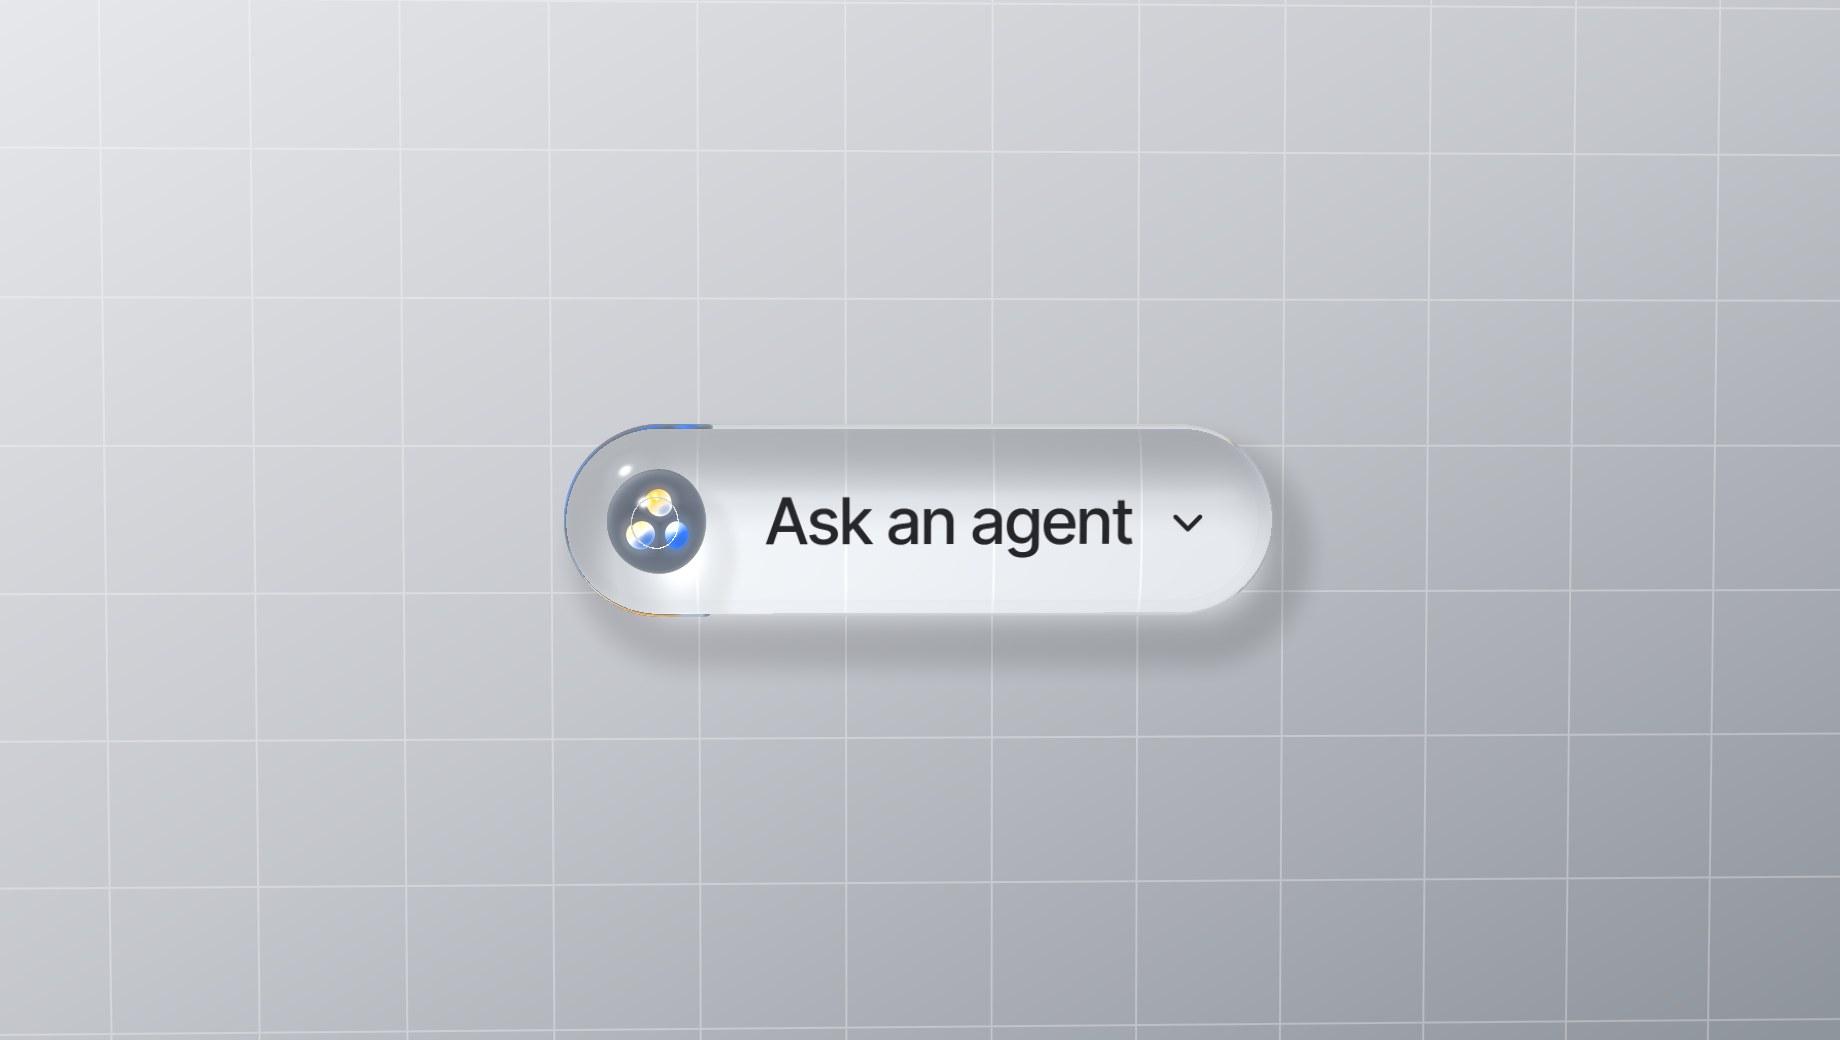
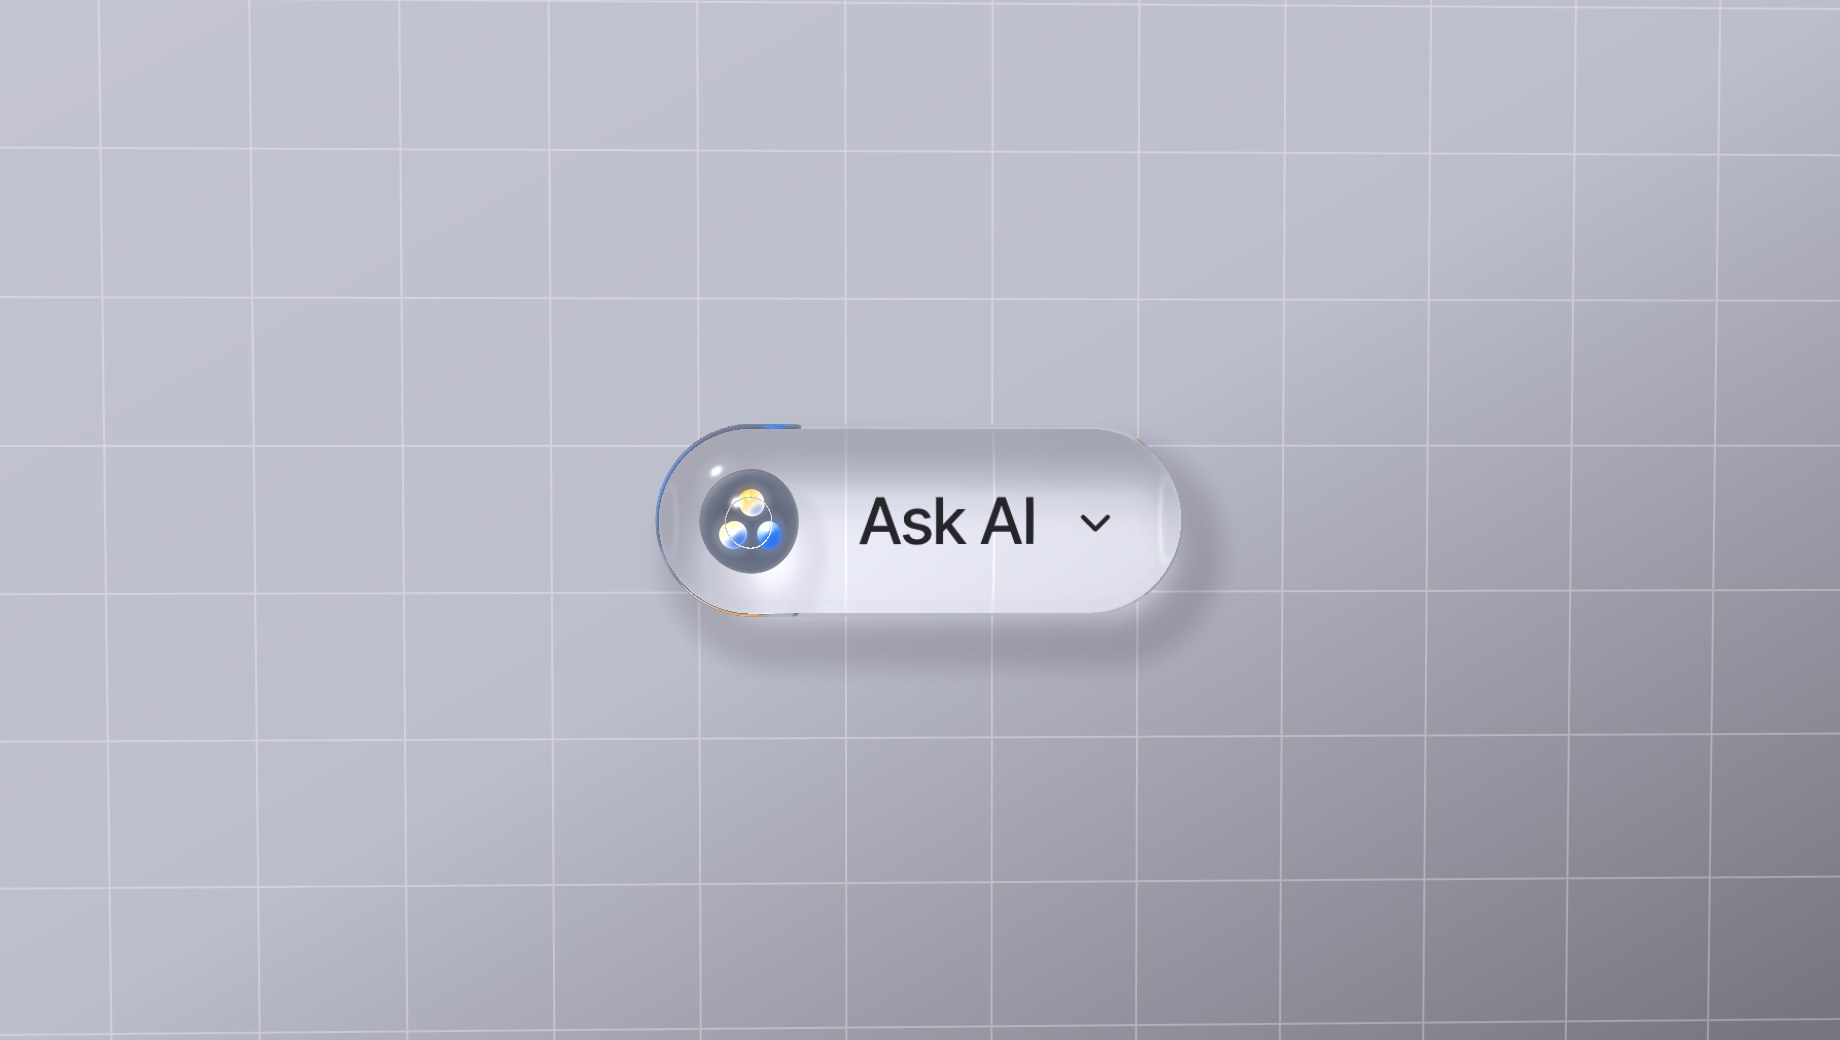
lab-board: Glass Button, a sharp minimal panel and the #bdbecc background by default
No radii anywhere in the panel, flat 1px outlines, full-width dividers between
the main groups, quieter surfaces. The default (and Signature) background is the
Colour grid on #bdbecc; thumbnail refreshed.

diff --git a/lab-board/pieces/glass-button/index.html b/lab-board/pieces/glass-button/index.html
@@ -106,7 +106,8 @@
   .panel::-webkit-scrollbar-thumb{border:3px solid transparent; border-radius:10px; background:rgba(20,20,20,.16) padding-box}
   .panel::-webkit-scrollbar-thumb:hover{background:rgba(20,20,20,.3) padding-box}
   .panel::-webkit-scrollbar-track{background:transparent}
-  .grp + .grp{border-top:1px solid rgba(20,20,20,.07)}
+  .grp{margin:0 -18px; padding:0 18px}
+  .grp + .grp{border-top:1px solid rgba(20,20,20,.1)}               /* full-width dividers between the main groups */
   .gh{
     position:sticky; top:0; z-index:2; display:flex; align-items:center; justify-content:space-between; width:calc(100% + 36px); margin:0 -18px;
     height:46px; padding:0 18px; border:0; font:inherit; font-size:13px; font-weight:600; letter-spacing:-.005em; color:var(--ink); cursor:pointer;
@@ -196,6 +197,21 @@
   body:not(.bare) .chip{bottom:52px}
   @media (max-width:520px){ .meta.bottom{flex-direction:column; gap:4px} body:not(.bare) .chip{bottom:70px} }
   @media (prefers-reduced-motion:reduce){ .menu, .panel, .stage{transition-duration:.01s} }
+
+  /* ---------- the panel: sharp, flat, minimal ---------- */
+  .panel, .panel *, .tune{border-radius:0 !important}
+  .panel{background:rgba(250,250,251,.94); box-shadow:0 0 0 1px rgba(20,20,20,.09), 0 28px 60px -34px rgba(20,24,30,.4)}
+  .panel::-webkit-scrollbar-thumb{border-radius:0}
+  .gh, .acts{background:rgba(250,250,251,.97)}
+  .gh{font-size:12.5px; font-weight:600; letter-spacing:.01em}
+  .tune{box-shadow:0 0 0 1px rgba(20,20,20,.1); background:rgba(250,250,251,.8)}
+  .presets button, .acts button, .row .act, .row input[type=text], .seg{box-shadow:inset 0 0 0 1px rgba(20,20,20,.12); background:transparent}
+  .presets button:hover, .acts button:hover, .row .act:hover{background:rgba(20,20,20,.05)}
+  .presets button[aria-pressed=true]{background:var(--ink); color:#fff; box-shadow:none}
+  .seg{padding:0; gap:0} .seg button{padding:5px 11px} .seg button[aria-pressed=true]{box-shadow:none; background:var(--ink); color:#fff}
+  .row input[type=range]::-webkit-slider-thumb{width:12px; height:12px; margin-top:-5px; box-shadow:0 0 0 1px rgba(20,20,20,.35)}
+  .row input[type=range]::-moz-range-thumb{width:12px; height:12px; box-shadow:0 0 0 1px rgba(20,20,20,.35)}
+  .bgs button{box-shadow:inset 0 0 0 1px rgba(20,20,20,.12)} .bgs button[aria-pressed=true]{box-shadow:0 0 0 2px var(--ink)}
 </style>
 </head>
 <body>
@@ -251,7 +267,7 @@ const DEF = {
   bead: true, beadSize: 2.12, sink: .9, smoke: .22, starSize: .6, starMotion: 1,
   text: 'Ask AI', agent: '', icon: 'glyph', beadFlat: 1, orbSpeed: 1, orbGlow: 1, embSize: 1, embDepth: .5, embFrost: .7, ink: '#1b1c20', inkA: .94, chevron: true,
   scale: 1, h: 3.1, pl: .5, pr: 1.2, gap: .62, weight: 500,
-  bg: 'grid', bgColor: '#39435a', gridDensity: 1, bgScale: 1, grid: .3,
+  bg: 'color', bgColor: '#bdbecc', gridDensity: 1, bgScale: 1, grid: .3,
   sound: 'glass', release: true, volume: .5,
   menuGap: .35, liquid: 0, menuLift: 0,
   glowOn: false, glow: 'aurora', glowK: 1, glowSize: 1, glowSpeed: 1,
@@ -262,7 +278,7 @@ const SIGNATURE = {
   ior: 2.28, disp: .106, tint: '#e63d97', tintK: 0, lightEl: 8, key: 2.09, env: 1.29, rim: 2.5, shadow: 1.04,
   beadSize: 1.91, sink: .71, smoke: .08, starSize: .38, starMotion: .91, icon: 'orb', orbSpeed: .36, orbGlow: .95,
   embSize: 1.34, embDepth: 1, embFrost: .58, inkA: 1, scale: 1.4, h: 4, pl: 1, pr: 2, gap: 1.2, weight: 540,
-  bgColor: '#bdbecc', gridDensity: 2.24, bgScale: 3, grid: .36, sound: 'bubble', volume: .16,
+  bg: 'color', bgColor: '#bdbecc', gridDensity: 2.24, bgScale: 3, grid: .36, sound: 'bubble', volume: .16,
   menuGap: 1.14, liquid: .69, glowSize: 1.62, glowSpeed: 1.06,
 };
 const PRESETS = {

diff --git a/lab-board/pieces/glass-button/README.md b/lab-board/pieces/glass-button/README.md
@@ -8,7 +8,7 @@ Cała scena to mały ray tracer w jednym shaderze WebGL2 (GLSL 300 es). DOM-owy 
 
 **Bryła** to pole odległości (SDF) śledzone krokami (sphere tracing): obrys to prostokąt z zaokrąglonymi rogami (aż do pełnej pigułki), a na nim profil wysokości od góry i od spodu. Kopuła > 0 daje soczewkę wypukłą, kopuła < 0 wklęsłą misę; przy wklęsłości ścianka sama się podnosi, żeby zawsze był rant.
 
-**Panel „Tune”** (przycisk w prawym górnym rogu; na telefonie wysuwa się od dołu). Grupy w kolejności pracy: Presets, Shape, Glass, Light, Shadow & glow, Icon, Menu, Label, Layout, Background, Sound. Każdą grupę można zwinąć (stan jest pamiętany), nagłówki przyklejają się przy przewijaniu, Reset i Copy są przyklejone na dole, a opcje zależne pokazują się tylko wtedy, gdy coś robią. Wszystkie 52 opcje przeszły automatyczny test (min i max zmieniają obraz albo układ).
+**Panel „Tune”** (przycisk w prawym górnym rogu; na telefonie wysuwa się od dołu). Grupy w kolejności pracy: Presets, Shape, Glass, Light, Shadow & glow, Icon, Menu, Label, Layout, Background, Sound. Styl panelu: ostry i minimalistyczny (bez zaokrągleń, płaskie obramowania, dzielniki przez całą szerokość między grupami). Każdą grupę można zwinąć (stan jest pamiętany), nagłówki przyklejają się przy przewijaniu, Reset i Copy są przyklejone na dole, a opcje zależne pokazują się tylko wtedy, gdy coś robią. Wszystkie 52 opcje przeszły automatyczny test (min i max zmieniają obraz albo układ).
 - *Presets*: **Signature** (pełny wygląd Jarka: gruba, lekko wklęsła płyta z miękkim brzegiem uniesiona nad stroną, IOR 2,28 z mocnym rozszczepieniem, orb, większy layout, dźwięk Bubble, płynne menu; bez treści) i kształty, które zmieniają tylko bryłę i optykę: M&M, Puck (gruby krążek), Tile (płytka z zaokrąglonymi rogami), Lens (wysoka, dwustronnie wypukła), Pebble (miękki kamyk), Dish (wklęsła), Prism (kanciasty kryształ, IOR 2,3), Droplet (woda, IOR 1,33). Po wybraniu kształtu ikonka sama dopasowuje się do nowej bryły.
 - *Shape*: rogi, kopuła (wypukła / wklęsła), ścianka, spód, profil (1 = stożek, 2 = łuk koła, więcej = płaski wierzch z ostrzejszym brzegiem), zaokrąglenie krawędzi, uniesienie nad stroną. *Press grow*: o ile przycisk rośnie przy przytrzymaniu (domyślnie 8%).
 - *Optics*: współczynnik załamania, dyspersja, zmatowienie (frost), kolor i siła zabarwienia szkła.
@@ -16,7 +16,7 @@ Cała scena to mały ray tracer w jednym shaderze WebGL2 (GLSL 300 es). DOM-owy 
 - *Icon*: styl ikonki po lewej, każdy z własnymi ustawieniami (reszta się chowa). **glyph**: symbol w szklanej kulce (trzy kropki, gdy nie wybrano agenta, potem lupa, stalówka albo kostka, które przelewają się jedno w drugie); rozmiar, okrągłość, zatopienie, zadymienie, wielkość symbolu, ruch gradientu. **orb**: płynąca wielobarwna plazma w kulce, w kolorze agenta, przyspiesza przy przytrzymaniu; rozmiar, okrągłość, zatopienie, zadymienie, tempo, jasność. **emboss**: symbol wyrzeźbiony w powierzchni szkła, bez kulki; rozmiar, głębokość i matowienie rzeźbienia. Przycisk **Fit the icon inside the glass** (glyph i orb) najpierw spłaszcza kulkę w kształt M&M, zachowując jej szerokość, aż zmieści się w szkle; zmniejsza ją dopiero, gdy nie wystarczy nawet spłaszczenie (sprawdza 60 punktów na jej powierzchni względem tego samego pola odległości co shader) i ustawia ją na środku grubości szkła. Kulka jest elipsoidą, więc symbol w środku się nie deformuje.
 - *Content*: tekst przycisku, kolor i krycie nadruku, strzałka.
 - *Layout*: skala, wysokość, paddingi, odstęp, grubość fontu (Inter Tight 400–600).
-- *Background* (na górze panelu): siatka jasna, ciemna albo na dowolnym kolorze z pickera (*Background colour*), gęstość siatki i siła jej linii; linie same robią się ciemne na bardzo jasnym kolorze. Do tego **Upload** obrazka albo wideo (też przeciągnięciem albo wklejeniem), plik zostaje w przeglądarce (*Image scale* go powiększa).
+- *Background*: siatka jasna, ciemna albo na dowolnym kolorze z pickera (*Background colour*; domyślnie Colour #bdbecc), gęstość siatki i siła jej linii; linie same robią się ciemne na bardzo jasnym kolorze. Do tego **Upload** obrazka albo wideo (też przeciągnięciem albo wklejeniem), plik zostaje w przeglądarce (*Image scale* go powiększa).
 - *Shadow*: siła cienia. Jak w Liquid Glass cień rzuca tylko krawędź: miękki pas wzdłuż rantu, a środek szkła zostaje jasny, z kaustyką (skupionym światłem) w środku; zawsze ten sam i zawsze słucha tego suwaka i przełącznik **Glow**, który tylko dokłada światło na wierzchu: kolorową poświatę pod i wokół szkła, której barwy powoli płyną wzdłuż przycisku, jak podświetlenie za telewizorem. Palety (Aurora, Star, Ocean, Ember), siła, rozmiar i tempo ruchu pokazują się dopiero po włączeniu; włączenie przy sile 0 samo ustawia domyślną. Przez szkło widać poświatę załamaną.
 - *Menu*: odstęp od przycisku, *Liquid* (0 = osobne kawałki, 1 = zlewają się w jedną bryłę), wysokość w osi Z.
 - Każdą wartość liczbową można kliknąć i wpisać z klawiatury (przecinek też działa); Enter zatwierdza, Esc cofa, strzałki zmieniają o krok (z Shiftem o 10).
